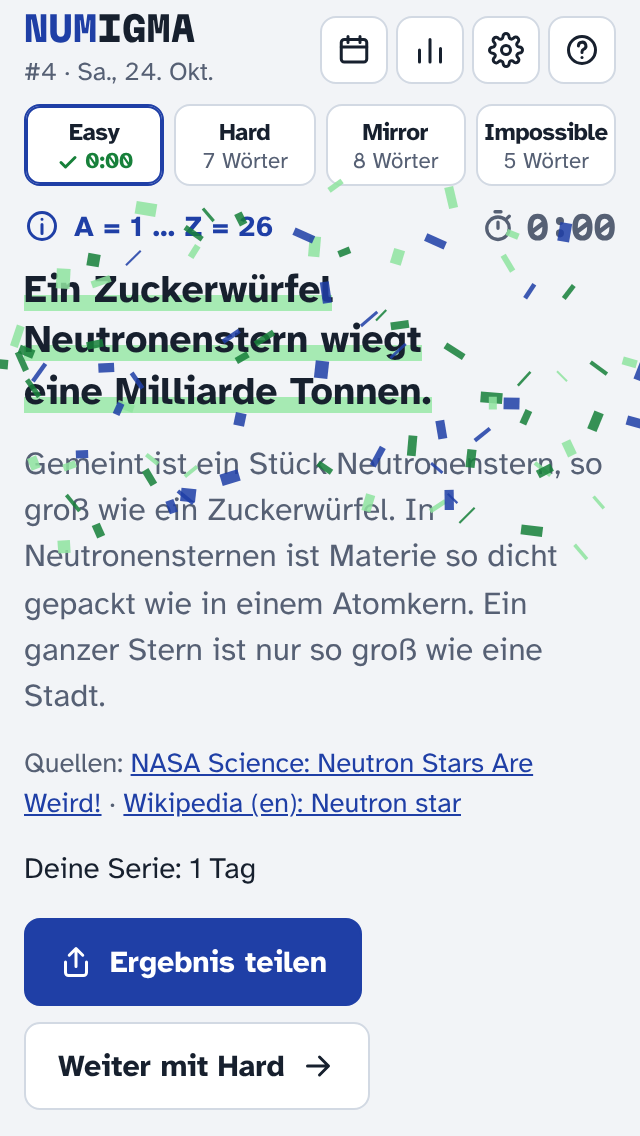
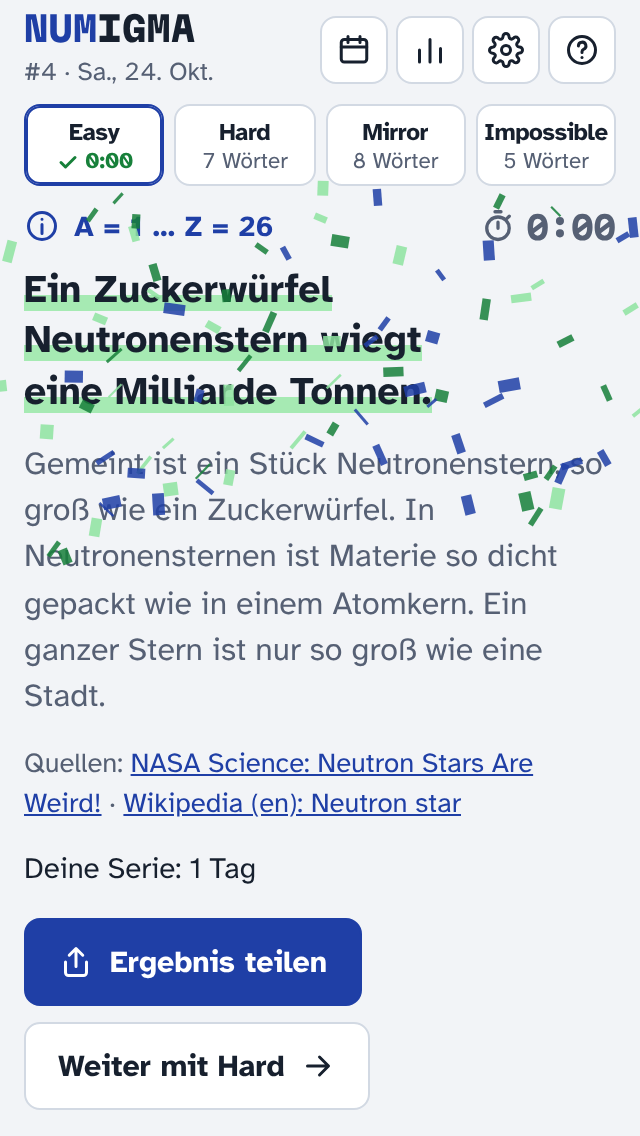
Rückmeldungen der Testspieler: gelöste Wörter ohne Zahlen, neuer Tag ohne Suchen (#3)
- Gelöste und aufgelöste Wörter: Zahlen verschwinden, das Wort steht mittig im Feld (gleiche Größe, nichts verrutscht)
- Seite vom Vortag wieder geöffnet: direkt das neue Rätsel mit kurzer Meldung,
  außer mitten in einem angefangenen Rätsel oder im Archiv (dann bleibt „Jetzt spielen“)
- Archiv-Knopf „Zum heutigen Rätsel“ statt „Zu heute“
- Einstellungen erklären „System“ (hell oder dunkel wie am Gerät)
- Impossible: Hinweis, dass man Buchstaben in den Kästchen einfach ausprobieren kann
- Entscheidungen zu Wiederholen, Notizfeld und Werbung in _dev/KONZEPTE.md
- Tests: 58/58 (neu: neuer Tag, gelöste Wörter, Einstellungen/Impossible-Hinweis)

Claude-Session: https://claude.ai/code/session_01UizJ3MfA2PHDqjVNM3Cj6o

diff --git a/index.html b/index.html
@@ -171,6 +171,9 @@ a{color:var(--ink)}
 .w.ok .d.cut{box-shadow:inset 2px 0 0 var(--marker-text)}
 .w.ok.helped .lr::after{content:"";position:absolute;right:-4px;top:-3px;width:7px;height:7px;border-radius:50%;background:var(--marker-text);opacity:.55}
 .w.given .c{color:var(--pencil);box-shadow:inset 0 -2px 0 0 var(--pencil);background:transparent}
+/* Gelöste und aufgelöste Wörter: Die Zahlen verschwinden, das Wort rückt in die Mitte. Größe bleibt gleich, damit nichts verrutscht. */
+.w.ok .dr,.w.given .dr{opacity:0;visibility:hidden;transition:opacity .2s .35s,visibility 0s .55s}
+.w.ok .lr,.w.given .lr{transform:translateY(calc(var(--cell) * -.5));transition:transform .2s .35s}
 .w.locked{cursor:default}
 .w.flash::before{animation:swipe .45s ease-out both}
 .w.shake{animation:shake .32s ease-in-out}
@@ -417,7 +420,7 @@ textarea{width:100%;font:inherit;font-size:.95rem;padding:10px;border:1px solid 
 @media (min-width:640px) and (min-height:521px){ .modes .mode .n{font-size:.95rem} }
 @media (prefers-reduced-motion: reduce){
   .w.shake,.w.flash::before,.demo2 .hl{animation:none}
-  .w.ok .c,.w.ok .d{transition:none}
+  .w.ok .c,.w.ok .d,.w.ok .dr,.w.given .dr,.w.ok .lr,.w.given .lr{transition:none}
 }
 @media (forced-colors: active){
   .w.ok::before,.w.given::before{border:2px solid CanvasText;background:Canvas}
@@ -569,7 +572,7 @@ const STR = {
     issue: (n, d) => `#${n} · ${d}`,
     archiveBar: (n, d, r) => `Archiv: #${n} vom ${d}${r ? ` (Wiederholung von #${r})` : ''}. Zählt nicht für die Serie.`,
     repeatBar: r => `Heute: Wiederholung von #${r}. Neue Fakten sind in Arbeit.`,
-    backToday: 'Zu heute', newday: 'Ein neues Rätsel ist da.', newdayBtn: 'Jetzt spielen',
+    backToday: 'Zum heutigen Rätsel', newday: 'Ein neues Rätsel ist da.', newdayBtn: 'Jetzt spielen', newdayAuto: n => `Neuer Tag, neues Rätsel: #${n}`,
     futureSoon: (n, t) => `Rätsel #${n} erscheint bei dir in ${t}. Bis dahin: das heutige.`,
     futureLater: (n, d) => `Rätsel #${n} erscheint erst am ${d}. Hier ist das heutige.`,
     badLink: 'Diesen Link kennen wir nicht. Hier ist das heutige Rätsel.',
@@ -580,7 +583,7 @@ const STR = {
     startNote: 'Der Code erscheint erst nach Start. Die Uhr läuft nur, solange du ihn siehst. Die Pause-Taste neben der Uhr hält sie an.',
     toEasy: 'Neu hier? Fang lieber mit Easy an',
     noNumbers: 'Auf der Tastatur stehen hier keine Zahlen. Der Schlüssel blendet sie für einen Buchstaben ein und kostet 1 Tipp.',
-    impTip: 'Tipp: Fang mit einem kurzen Wort an. Errätst du einen Buchstaben, kennst du die Verschiebung für alle.',
+    impTip: 'Tipp: Fang mit einem kurzen Wort an. Errätst du einen Buchstaben, kennst du die Verschiebung für alle. Probier ruhig Buchstaben in den Kästchen aus, du kannst jedes überschreiben.',
     rotateTitle: 'Bitte hochkant halten', rotateText: 'Im Querformat ist auf diesem Bildschirm zu wenig Platz für Code und Tastatur. Die Uhr steht so lange.',
     paused: 'Pausiert', pausedAt: t => `Die Uhr steht bei ${t}. Der Code ist so lange verdeckt.`,
     pausedTab: 'Dieses Rätsel war zuletzt in einem anderen Tab offen.', pausedProgress: (c, n) => `${c} von ${n} Wörtern gelöst`, resume: 'Weiter',
@@ -623,7 +626,7 @@ const STR = {
       streakNote: 'Die Serie wächst mit jedem Tag, an dem du ein Rätsel des Tages löst. Nächste Codes in', empty: 'Noch nichts gelöst. Dein erstes Rätsel wartet.' },
     archive: { title: 'Archiv', intro: 'Alle bisherigen Rätsel zum Nachspielen. Sie zählen für die Statistik, aber nicht für die Serie.', today: 'Heute',
       st: { solved: 'gelöst', revealed: 'aufgelöst', playing: 'angefangen', open: 'offen' }, repeat: r => `Wiederholung von #${r}` },
-    settings: { title: 'Einstellungen', theme: 'Design', system: 'System', light: 'Hell', dark: 'Dunkel', language: 'Sprache',
+    settings: { title: 'Einstellungen', theme: 'Design', system: 'System', light: 'Hell', dark: 'Dunkel', themeNote: 'System: hell oder dunkel, je nachdem, wie dein Handy oder Computer eingestellt ist.', language: 'Sprache',
       haptics: 'Haptisches Feedback', hapticsNote: 'Am Handy bei jedem Tastendruck. Auf Android zusätzlich bei richtigen und falschen Wörtern.',
       privacy: 'Kein Konto, keine Werbung, kein Tracking. Dein Fortschritt bleibt nur in diesem Browser. Auf einem anderen Gerät oder als App am Home-Bildschirm beginnt die Statistik neu.',
       intro: 'Kurz-Einstieg ansehen', done: 'Fertig' },
@@ -667,7 +670,7 @@ const STR = {
     issue: (n, d) => `#${n} · ${d}`,
     archiveBar: (n, d, r) => `Archive: #${n} from ${d}${r ? ` (repeat of #${r})` : ''}. Does not count towards your streak.`,
     repeatBar: r => `Today: a repeat of #${r}. New facts are on the way.`,
-    backToday: 'To today', newday: 'A new puzzle is out.', newdayBtn: 'Play now',
+    backToday: 'Today’s puzzle', newday: 'A new puzzle is out.', newdayBtn: 'Play now', newdayAuto: n => `New day, new puzzle: #${n}`,
     futureSoon: (n, t) => `Puzzle #${n} arrives for you in ${t}. Until then, here is today’s.`,
     futureLater: (n, d) => `Puzzle #${n} is not out until ${d}. Here is today’s.`,
     badLink: 'That link did not work. Here is today’s puzzle.',
@@ -678,7 +681,7 @@ const STR = {
     startNote: 'The code appears when you press Start. The clock only runs while you can see it. The pause button next to the clock stops it.',
     toEasy: 'New here? Start with Easy instead',
     noNumbers: 'The keyboard shows no numbers here. The key shows them for one letter and costs 1 hint.',
-    impTip: 'Tip: start with a short word. Guess one letter and you know the shift for all of them.',
+    impTip: 'Tip: start with a short word. Guess one letter and you know the shift for all of them. Feel free to try letters in the boxes; you can type over any of them.',
     rotateTitle: 'Please turn your phone upright', rotateText: 'In landscape this screen is too small for the code and the keyboard. The clock is paused until you turn your phone back.',
     paused: 'Paused', pausedAt: t => `The clock is stopped at ${t}. The code stays hidden until you continue.`,
     pausedTab: 'This puzzle was last open in another tab.', pausedProgress: (c, n) => `${c} of ${n} words solved`, resume: 'Continue',
@@ -721,7 +724,7 @@ const STR = {
       streakNote: 'Your streak grows every day you solve at least one of that day’s puzzles. Next codes in', empty: 'Nothing solved yet. Your first puzzle is waiting.' },
     archive: { title: 'Archive', intro: 'Every puzzle so far, ready to replay. They count towards your statistics but not your streak.', today: 'Today',
       st: { solved: 'solved', revealed: 'revealed', playing: 'started', open: 'open' }, repeat: r => `Repeat of #${r}` },
-    settings: { title: 'Settings', theme: 'Theme', system: 'System', light: 'Light', dark: 'Dark', language: 'Language',
+    settings: { title: 'Settings', theme: 'Theme', system: 'System', light: 'Light', dark: 'Dark', themeNote: 'System: light or dark, matching the setting on your phone or computer.', language: 'Language',
       haptics: 'Haptic feedback', hapticsNote: 'On phones with every key press. On Android also for right and wrong words.',
       privacy: 'No account, no ads, no tracking. Your progress stays in this browser only. On another device or as a home screen app, your statistics start fresh.',
       intro: 'Show the quick start', done: 'Done' },
@@ -1757,7 +1760,7 @@ function renderSettings() {
     `<div><h3>${esc(t.language)}</h3>${langSeg('settingsLang')}</div>` +
     `<div><h3 id="themeLabel">${esc(t.theme)}</h3><div class="seg" role="radiogroup" aria-labelledby="themeLabel">` +
       [['system', t.system], ['light', t.light], ['dark', t.dark]].map(([v, l]) => `<label><input type="radio" name="theme" id="theme-${v}" value="${v}"${(store.theme || 'system') === v ? ' checked' : ''}><span>${esc(l)}</span></label>`).join('') +
-    '</div></div>' +
+    `</div><p class="small" style="margin-top:6px">${esc(t.themeNote)}</p></div>` +
     `<div class="row"><label for="hapticsToggle"><strong>${esc(t.haptics)}</strong><br><span class="small">${esc(t.hapticsNote)}</span></label><input type="checkbox" switch id="hapticsToggle"${store.haptics ? ' checked' : ''}></div>` +
     `<p class="small">${esc(t.privacy)}</p>` +
     '<div class="actions-row">' +
@@ -1850,6 +1853,16 @@ function afterDialog() {
   syncVeil();
   if (!dialogOpen() && !clock && day && ms(current).status === 'playing' && !paused) { ensureActive(); startClock(); }
   renderTimer();
+}
+
+// Seite vom Vortag wieder geöffnet (Tab oder App im Hintergrund): gleich das neue Rätsel zeigen.
+// Nicht, wenn man gerade ein Archivrätsel spielt oder mitten in einem Rätsel ist; dann bleibt der Hinweis mit „Jetzt spielen“.
+function newDayOnReturn() {
+  const t = realToday();
+  if (!day || t === openedOn || archive || dialogOpen() || ms(current).status === 'playing') return;
+  openedOn = t; $('#newday').hidden = true;
+  setView(t, false);
+  toast(T().newdayAuto(day.number));
 }
 
 function markSeen() { if (!store.seenHelp) { store.seenHelp = true; save(); } }
@@ -1994,10 +2007,10 @@ window.addEventListener('storage', e => {
 });
 document.addEventListener('visibilitychange', () => {
   if (document.hidden) { if (day && ms(current).status === 'playing' && !paused) pauseGame('hidden'); else stopClock(); }
-  else tick();
+  else { newDayOnReturn(); tick(); }
 });
 window.addEventListener('pagehide', () => { stopClock(); save(); });
-window.addEventListener('pageshow', e => { if (e.persisted && day && ms(current).status === 'playing' && !paused) pauseGame('hidden'); });
+window.addEventListener('pageshow', e => { if (!e.persisted || !day) return; newDayOnReturn(); if (ms(current).status === 'playing' && !paused) pauseGame('hidden'); });
 if (tinyLandscape.addEventListener) tinyLandscape.addEventListener('change', () => { if (tinyLandscape.matches && day && ms(current).status === 'playing' && !paused) pauseGame('rotate'); });
 let rz;
 window.addEventListener('resize', () => { cancelAnimationFrame(rz); rz = requestAnimationFrame(layoutBoard); });

diff --git a/_dev/tests/spiel.test.js b/_dev/tests/spiel.test.js
@@ -594,6 +594,74 @@ test('Serie: kurz vor Mitternacht angefangen, danach gelöst, zählt noch für d
   await page.context().close();
 });
 
+test('Neuer Tag: Wer die Seite vom Vortag wieder öffnet, landet beim neuen Rätsel, außer mitten im Spiel', async () => {
+  const back = p => p.evaluate(() => {
+    Object.defineProperty(document, 'hidden', { configurable: true, get: () => true }); document.dispatchEvent(new Event('visibilitychange'));
+    Object.defineProperty(document, 'hidden', { configurable: true, get: () => false }); document.dispatchEvent(new Event('visibilitychange'));
+  });
+  // Easy gestern gelöst, Seite über Nacht offen gelassen
+  let page = await openPage(env, { time: '2026-10-24T23:50:00+02:00' });
+  await page.click('#startBtn');
+  for (const w of solution(4, 'de', 'easy')) await typeWord(page, w);
+  await page.clock.runFor(11 * 60 * 1000);
+  await back(page);
+  assert.equal(await issueNumber(page), 5, 'neues Rätsel ohne Suchen');
+  assert.match(await page.textContent('#toast'), /Neuer Tag, neues Rätsel: #5/);
+  assert.equal(await page.isVisible('#newday'), false);
+  assert.equal(await page.isVisible('#archiveBar'), false);
+  noErrors(page);
+  await page.context().close();
+  // Mitten im Rätsel: nichts wird weggezogen, der Hinweis bleibt
+  page = await openPage(env, { time: '2026-10-24T23:50:00+02:00' });
+  await page.click('#startBtn');
+  await typeWord(page, solution(4, 'de', 'easy')[0]);
+  await page.clock.runFor(11 * 60 * 1000);
+  await back(page);
+  assert.equal(await issueNumber(page), 4);
+  assert.ok(await page.isVisible('#newday'));
+  await page.context().close();
+  // Archiv: Knopf sagt deutlich, wohin er führt
+  page = await openPage(env, { url: '?n=2' });
+  assert.equal((await page.textContent('#backToday')).trim(), 'Zum heutigen Rätsel');
+  await page.click('#backToday');
+  assert.equal(await issueNumber(page), 4);
+  await page.context().close();
+});
+
+test('Gelöste Wörter zeigen nur noch das Wort, die Zahlen darüber verschwinden', async () => {
+  const page = await openPage(env);
+  await page.click('#tab-hard');
+  await page.click('#startBtn');
+  const sol = solution(4, 'de', 'hard');
+  await typeWord(page, sol[0]);
+  const look = await page.evaluate(() => {
+    const vis = sel => getComputedStyle(document.querySelector(sel)).visibility;
+    const w = document.querySelector('.w[data-w="0"]'), lr = w.querySelector('.lr').getBoundingClientRect(), r = w.getBoundingClientRect();
+    return { solved: vis('.w[data-w="0"] .dr'), open: vis('.w[data-w="1"] .dr'), centred: Math.abs((lr.top + lr.bottom) / 2 - (r.top + r.bottom) / 2) < 2 };
+  });
+  assert.deepEqual(look, { solved: 'hidden', open: 'visible', centred: true });
+  // Auflösen: auch aufgelöste Wörter ohne Zahlen
+  await page.click('#revealBtn');
+  await page.click('#confirmYes');
+  assert.equal(await page.evaluate(() => [...document.querySelectorAll('.w .dr')].every(d => getComputedStyle(d).visibility === 'hidden')), true);
+  noErrors(page);
+  await page.context().close();
+});
+
+test('Einstellungen erklären „System“, Impossible ermuntert zum Ausprobieren', async () => {
+  let page = await openPage(env);
+  await page.click('#settingsBtn');
+  assert.match(await page.textContent('#settingsBody'), /System: hell oder dunkel, je nachdem, wie dein Handy oder Computer eingestellt ist/);
+  await page.keyboard.press('Escape');
+  await page.click('#tab-impossible');
+  assert.match(await page.textContent('#startCard'), /Probier ruhig Buchstaben in den Kästchen aus/);
+  await page.context().close();
+  page = await openPage(env, { locale: 'en-GB' });
+  await page.click('#settingsBtn');
+  assert.match(await page.textContent('#settingsBody'), /System: light or dark, matching the setting on your phone or computer/);
+  await page.context().close();
+});
+
 /* ------------------------------------------------------------ Vorrat erschöpft */
 test('Vorrat erschöpft: Wiederholung wird offen angezeigt', async () => {
   const last = NF.lastPlannedDay(), P = NF.plannedDays();

diff --git a/sw.js b/sw.js
@@ -2,7 +2,7 @@
    Immer zuerst das Netz fragen (so kommen neue Rätsel und Korrekturen sofort an).
    Nur wenn keine Verbindung da ist, wird die zuletzt geladene Fassung aus dem Zwischenspeicher genommen.
    Die Rätsel werden im Browser berechnet, deshalb funktioniert auch ein neuer Tag offline. */
-const CACHE = 'numigma-v9';
+const CACHE = 'numigma-v10';
 const CORE = [
   './', 'index.html', 'kern.js?v=8', 'fakten.js?v=8', 'manifest.webmanifest', 'en/',
   'icon.png', 'icon-192.png',

diff --git a/_dev/KONZEPTE.md b/_dev/KONZEPTE.md
@@ -42,6 +42,10 @@ Die Prüfseite mit allen Lösungen liegt jetzt in `_dev/` und wird nicht mehr ve
 - **Teilen nur mit gelösten Stufen (24. Oktober 2026):** Aufgelöste und nicht gespielte Stufen werden nicht geteilt, ohne gelöste Stufe gibt es eine kurze Herausforderung ohne Kästchen. Die Ergebnisanzeige im Spiel bleibt vollständig.
 - **Easy-Zahlen standardmäßig an (entschieden am 24. Oktober 2026):** Wer den Link zum ersten Mal bekommt, kann sofort loslegen, ohne das Alphabet durchzuzählen. Die Zahlen sind bei Easy kostenlos, zählen nicht als Hilfe und lassen sich abschalten; das bleibt gespeichert. Mehr Herausforderung bieten Hard, Mirror und Impossible.
 - **Erstbesuch aus WhatsApp (24. Oktober 2026):** Durchgespielt aus Sicht von jemandem, der den Link ohne Vorwissen antippt. Daraus: deutsche Linkvorschau mit „kostenlos, ohne Anmeldung, ohne Werbung“ und eigenem Vorschaubild mit deutschem Slogan (`og-de.png`, Englisch `og-en.png`, gleiches Design); der Kurz-Einstieg sagt zuerst, was das ist („Das tägliche Zahlenrätsel“), Überspringen steht unten; wer neu ist und über einen Link bei Hard, Mirror oder Impossible landet, bekommt Easy angeboten; beim allerersten Start ein kurzer Hinweis, wo man tippt; Regel in zwei kurzen Zeilen statt abgeschnitten („ohne…“); Zahlen auf der Tastatur größer und unter dem Buchstaben; Fortschritt nur noch auf der Stufe (nicht doppelt); Hard und Mirror sagen vor dem Start, dass die Tastatur keine Zahlen zeigt; „Tipp“ nur noch als Hinweis, nicht als Aufforderung („tipp auf …“).
+- **Erste Rückmeldungen von Testspielern (25. Oktober 2026):**
+  - Umgesetzt: Bei gelösten und aufgelösten Wörtern verschwinden die Zahlen, das Wort steht mittig im grünen Feld (gleiche Größe, nichts verrutscht). Wer die Seite vom Vortag wieder öffnet, landet direkt beim neuen Rätsel (nicht mitten in einem angefangenen Rätsel und nicht im Archiv). Der Archiv-Knopf heißt „Zum heutigen Rätsel“. Die Einstellungen erklären „System“. Impossible ermuntert dazu, Buchstaben in den Kästchen auszuprobieren.
+  - Nicht umgesetzt: **Rätsel wiederholen** (nach dem Lösen kennt man die Lösung; zum Nachspielen gibt es das Archiv). **Notizfeld bei Impossible** (die Kästchen sind der Notizblock und lassen sich beliebig überschreiben; ein Feld für freien Text würde am Handy die Systemtastatur über das Spiel legen, ein Verschiebungs-Rechner würde Impossible trivial machen). **Werbung** (widerspricht dem Versprechen „ohne Werbung, ohne Tracking“ in Vorschau und Einstellungen, braucht in der EU in der Regel eine Einwilligung, und GitHub Pages ist laut GitHub nicht als kostenloses Hosting für ein Online-Geschäft gedacht).
+  - Offen: Easy-Zahlen standardmäßig aus? Weniger Wörter bei Easy ab #17 (heute meist 6 bis 8, an 19 der ersten 110 Tage 9 bis 11)?
 - **Englische Tage #1–#16:** Die Zuordnung von Fakt zu Stufe weicht an sechs dieser Tage zwischen Deutsch und Englisch ab, weil sie so veröffentlicht wurde. Ab #17 ist sie in beiden Sprachen gleich.
 - **Name des Repositorys:** Die Adresse lautet weiter `…/numfact/`. Eine Umbenennung in `numigma` würde alle bisherigen Links brechen (GitHub leitet Pages-Adressen nicht weiter).
 - **Zahlen 0–9 für Jahreszahlen:** Würde neue Rätselarten ermöglichen, ändert aber die Regeln aller Stufen. Nicht umgesetzt.
